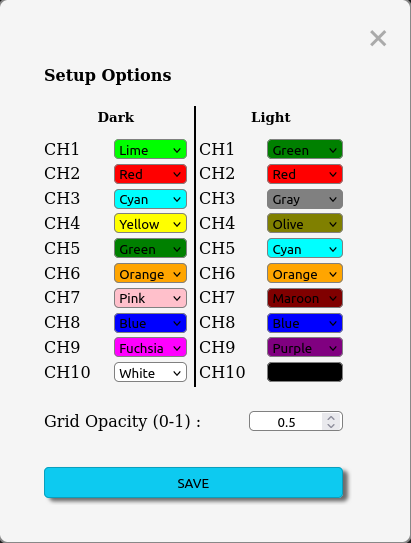
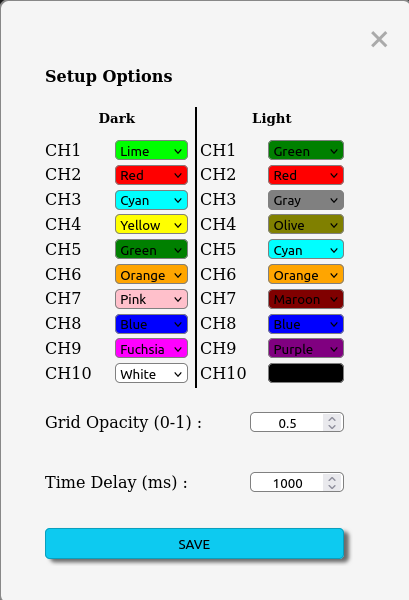
Add files via upload

diff --git a/oscillo/static/DOCS/module-SETUP.html b/oscillo/static/DOCS/module-SETUP.html
@@ -66,11 +66,12 @@
                         <figcaption class="text-center">Setup sub-menu.</figcaption>
                     </figure>
 
-                    <p>The setup sub-menu allows the user to select the color of each signal being displaying in the oscilloscope's screen and the grid opacity.</p>
+                    <p>The setup sub-menu allows the user to select the color of each signal being displaying in the oscilloscope's screen, the grid opacity and the 'refresh rate' of the screen.</p>
                     <p>The user is able to select specific colors depending on the theme of the screen (light or dark).</p>
                     <p class="info">If the user is looged-in, the styles will be saved for future sessions.</p>
-                    <p>To save the colors and apply the modifications, simply press the 'SAVE' button.</p>
-                    <p>The channel-buttons will also take the colors assigned by the user, this makes it easier to spot which signal is which channel.</p>
+                    <p>To save the colors and apply the modifications, simply press the 'SAVE' button.
+                    The channel-buttons will also take the colors assigned by the user, this makes it easier to spot which signal is which channel.</p>
+                    <p>We mentionned here above a 'refresh rate', but this value isn't so much a refresh rate but the amount of time between each frame.</p>
                 </dl>
 
                 <h4 class="name" id=".setup-examples">Examples</h4>
